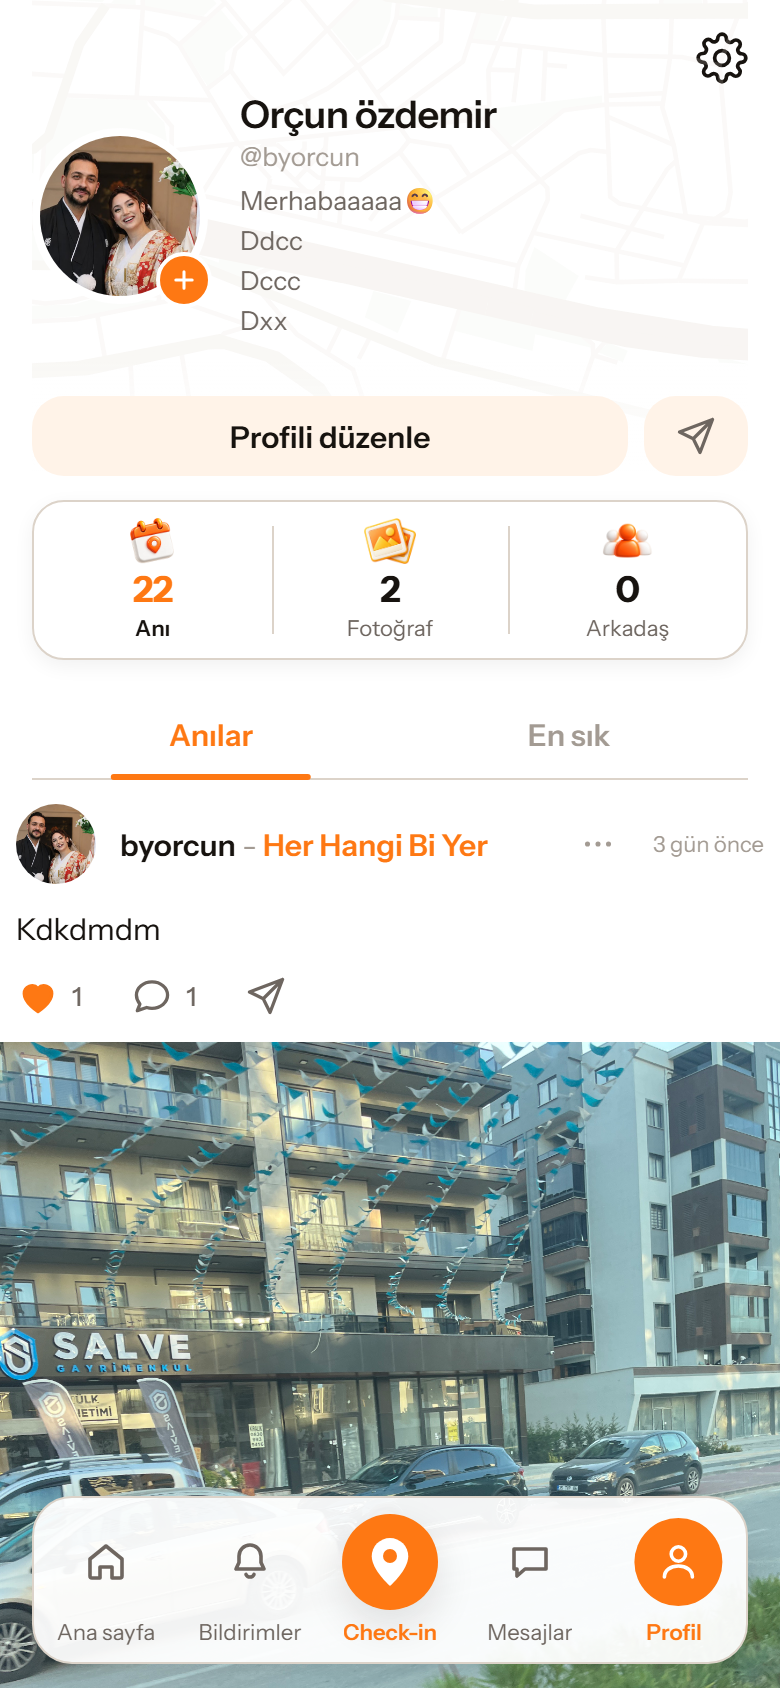
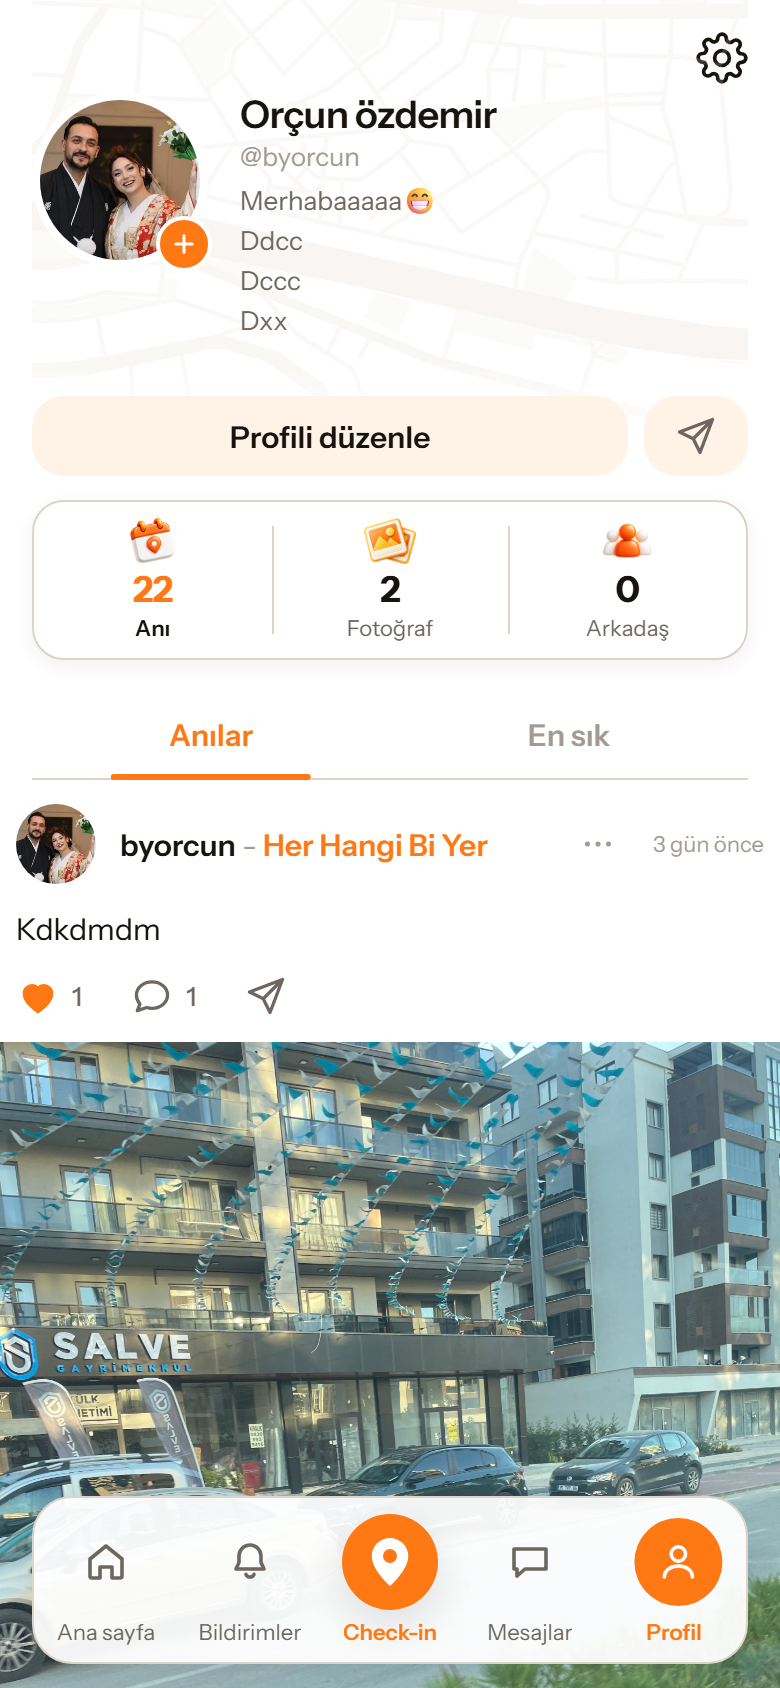
fix(profil): adin yeri sabitlendi, biyografiye uc satirlik alan ayrildi
Kullanicinin bildirdigi kusur: "isim kismi bu sefer yukari dogru
kayiyor, yeri sabit olmali; yazilacaginca gorunecegi alt alta birkac
satirlik alan yarat."

Bu, biyografi kirpmasini kaldirmanin YAN ETKISIYDI. Sebep
`kimlik.alignItems: 'center'`: sutun biyografi uzadikca buyuyor ve
ORTALANDIGI icin ad yukari tasiyordu. `flex-start` ile ad satirin
tepesine sabit; blok yalnizca ASAGI dogru buyuyor.

`biyografi.minHeight = 60` (3 x lineHeight 20). `minHeight`, sabit
`height` DEGIL - alan 160 karakterle kapali ama bu dort-bes satir
edebiliyor ve orada kirpmak ayni gun duzeltilen kusurun ta kendisi
olurdu. Biyografi yoksa alan da ayrilmiyor.

OLCULEREK dogrulandi: dort satirlik biyografisi olan hesapla tek
satirlik olan yan yana kondu; @kullaniciadi satiri ikisinde de y=147,
biyografinin ilk satiri ikisinde de y=191.

OLCUMDE TUZAK: once ADIN ust kenari karsilastirildi ve 100 vs 108
cikti - fark yerlesimden degil GLIFTEN geliyordu (buyuk "O" kucuk
"o"dan yukari uzaniyor). Iki profilde AYNI stille cizilen bir satiri
olcut almak gerekiyor.

Dogrulama: jest 68 paket / 817 test, tsc uygulama kodunda 0 hata.

Claude-Session: https://claude.ai/code/session_0147kohQ2crdMwyW7akyN9Sq

Changed region(s): [[0.0308, 0.0616, 0.2769, 0.1848]]

diff --git a/mobil/src/app/profil/index.tsx b/mobil/src/app/profil/index.tsx
@@ -1098,7 +1098,17 @@ const stilleriYap = (renk: Renk) => StyleSheet.create({
    */
   kimlik: {
     flexDirection: 'row' as const,
-    alignItems: 'center' as const,
+    /*
+     * USTTEN HIZALI, ORTALI DEGIL (kullanicinin bildirdigi kusur
+     * 2026-09-11: "isim kismi bu sefer yukari dogru kayiyor, yeri
+     * sabit olmali").
+     *
+     * `center` iken sutun biyografi uzadikca BUYUEYUP yukari
+     * tasiyordu: iki satirlik bir biyografide ad bir yerde, dort
+     * satirlikta 20-30 px yukarida duruyordu. Ustten hizalayinca adin
+     * yeri biyografiden BAGIMSIZ - blok yalnizca asagi dogru buyuyor.
+     */
+    alignItems: 'flex-start' as const,
     gap: bosluk.l,
     // Ust pay KALDIRILDI (8 -> 0): kullanicinin istegi 2026-09-11,
     // "profil resmi, isim, kullanici adi ve biyografiyi beraber biraz
@@ -1343,6 +1353,20 @@ const stilleriYap = (renk: Renk) => StyleSheet.create({
     lineHeight: 20,
     color: renk.metinIkincil,
     marginTop: 4,
+    /*
+     * UC SATIRLIK ALAN AYRILIYOR (kullanicinin istegi 2026-09-11:
+     * "yazilacaginca gorunecegi alt alta birkac satirlik alan
+     * yarat"). 3 x lineHeight(20) = 60.
+     *
+     * `minHeight`, sabit `height` DEGIL: alan 160 karakterle kapali
+     * ama bu dort-bes satir edebiliyor ve o durumda metnin kirpilmasi
+     * kullanicinin AYNI GUN bildirdigi kusurun ta kendisi olurdu.
+     * Yani ucten azsa yer ayrilir, fazlaysa asagi buyur.
+     *
+     * Biyografi YOKSA hic cizilmiyor, dolayisiyla bos yer de
+     * ayrilmiyor - bos bir profilde 60 px bosluk sebepsiz olurdu.
+     */
+    minHeight: 60,
   },
 
   // Canli serit: ekranin imza ogesi. Turuncu nokta "su an oluyor" der.

diff --git a/CLAUDE.md b/CLAUDE.md
@@ -1497,6 +1497,29 @@ once cok parlak (acik paletten alinmisti), sonra cok sonuk. Dogru
 olcut mutlak ton degil ZEMINE GORE FARK - ve o fark opakligi de
 hesaba katmali.
 
+**ADIN YERI SABITLENDI, BIYOGRAFIYE UC SATIRLIK ALAN AYRILDI -
+2026-09-11 (biyografi kirpmasinin YAN ETKISI).**
+
+Kirpma kalkinca yeni bir kusur dogdu ve kullanici bildirdi: "isim kismi
+bu sefer yukari dogru kayiyor, yeri sabit olmali." Sebep
+`kimlik.alignItems: 'center'` idi - sutun biyografi uzadikca buyuyor
+ve ORTALANDIGI icin ad yukari tasiyordu. `flex-start` ile ad artik
+satirin tepesine sabit; blok yalnizca ASAGI dogru buyuyor.
+
+`biyografi.minHeight = 60` (3 x lineHeight 20): kullanicinin istegi
+"yazilacaginca gorunecegi alt alta birkac satirlik alan yarat".
+`minHeight`, sabit `height` DEGIL - 160 karakter dort-bes satir
+edebiliyor ve orada kirpmak ayni gun duzeltilen kusurun ta kendisi
+olurdu. Biyografi yoksa alan da ayrilmiyor.
+
+**OLCULEREK dogrulandi:** dort satirlik biyografisi olan hesapla tek
+satirlik olan yan yana kondu; `@kullaniciadi` satiri ikisinde de
+y=147, biyografinin ilk satiri ikisinde de y=191. **Olcuemde tuzak:**
+once ADIN ust kenari karsilastirildi ve 100 vs 108 cikti - fark
+yerlesimden degil GLIFTEN geliyordu (buyuk "O" kucuk "o"dan yukari
+uzaniyor). Iki profilde AYNI stille cizilen bir satiri (`@`) olcut
+almak gerekiyor.
+
 ### YARICAP 500 M: LISTE VE HARITA AYNI - 2026-09-10
 
 Kullanicinin karari: "yakindaki mekanlar da 500 m mesafedeki yerler
